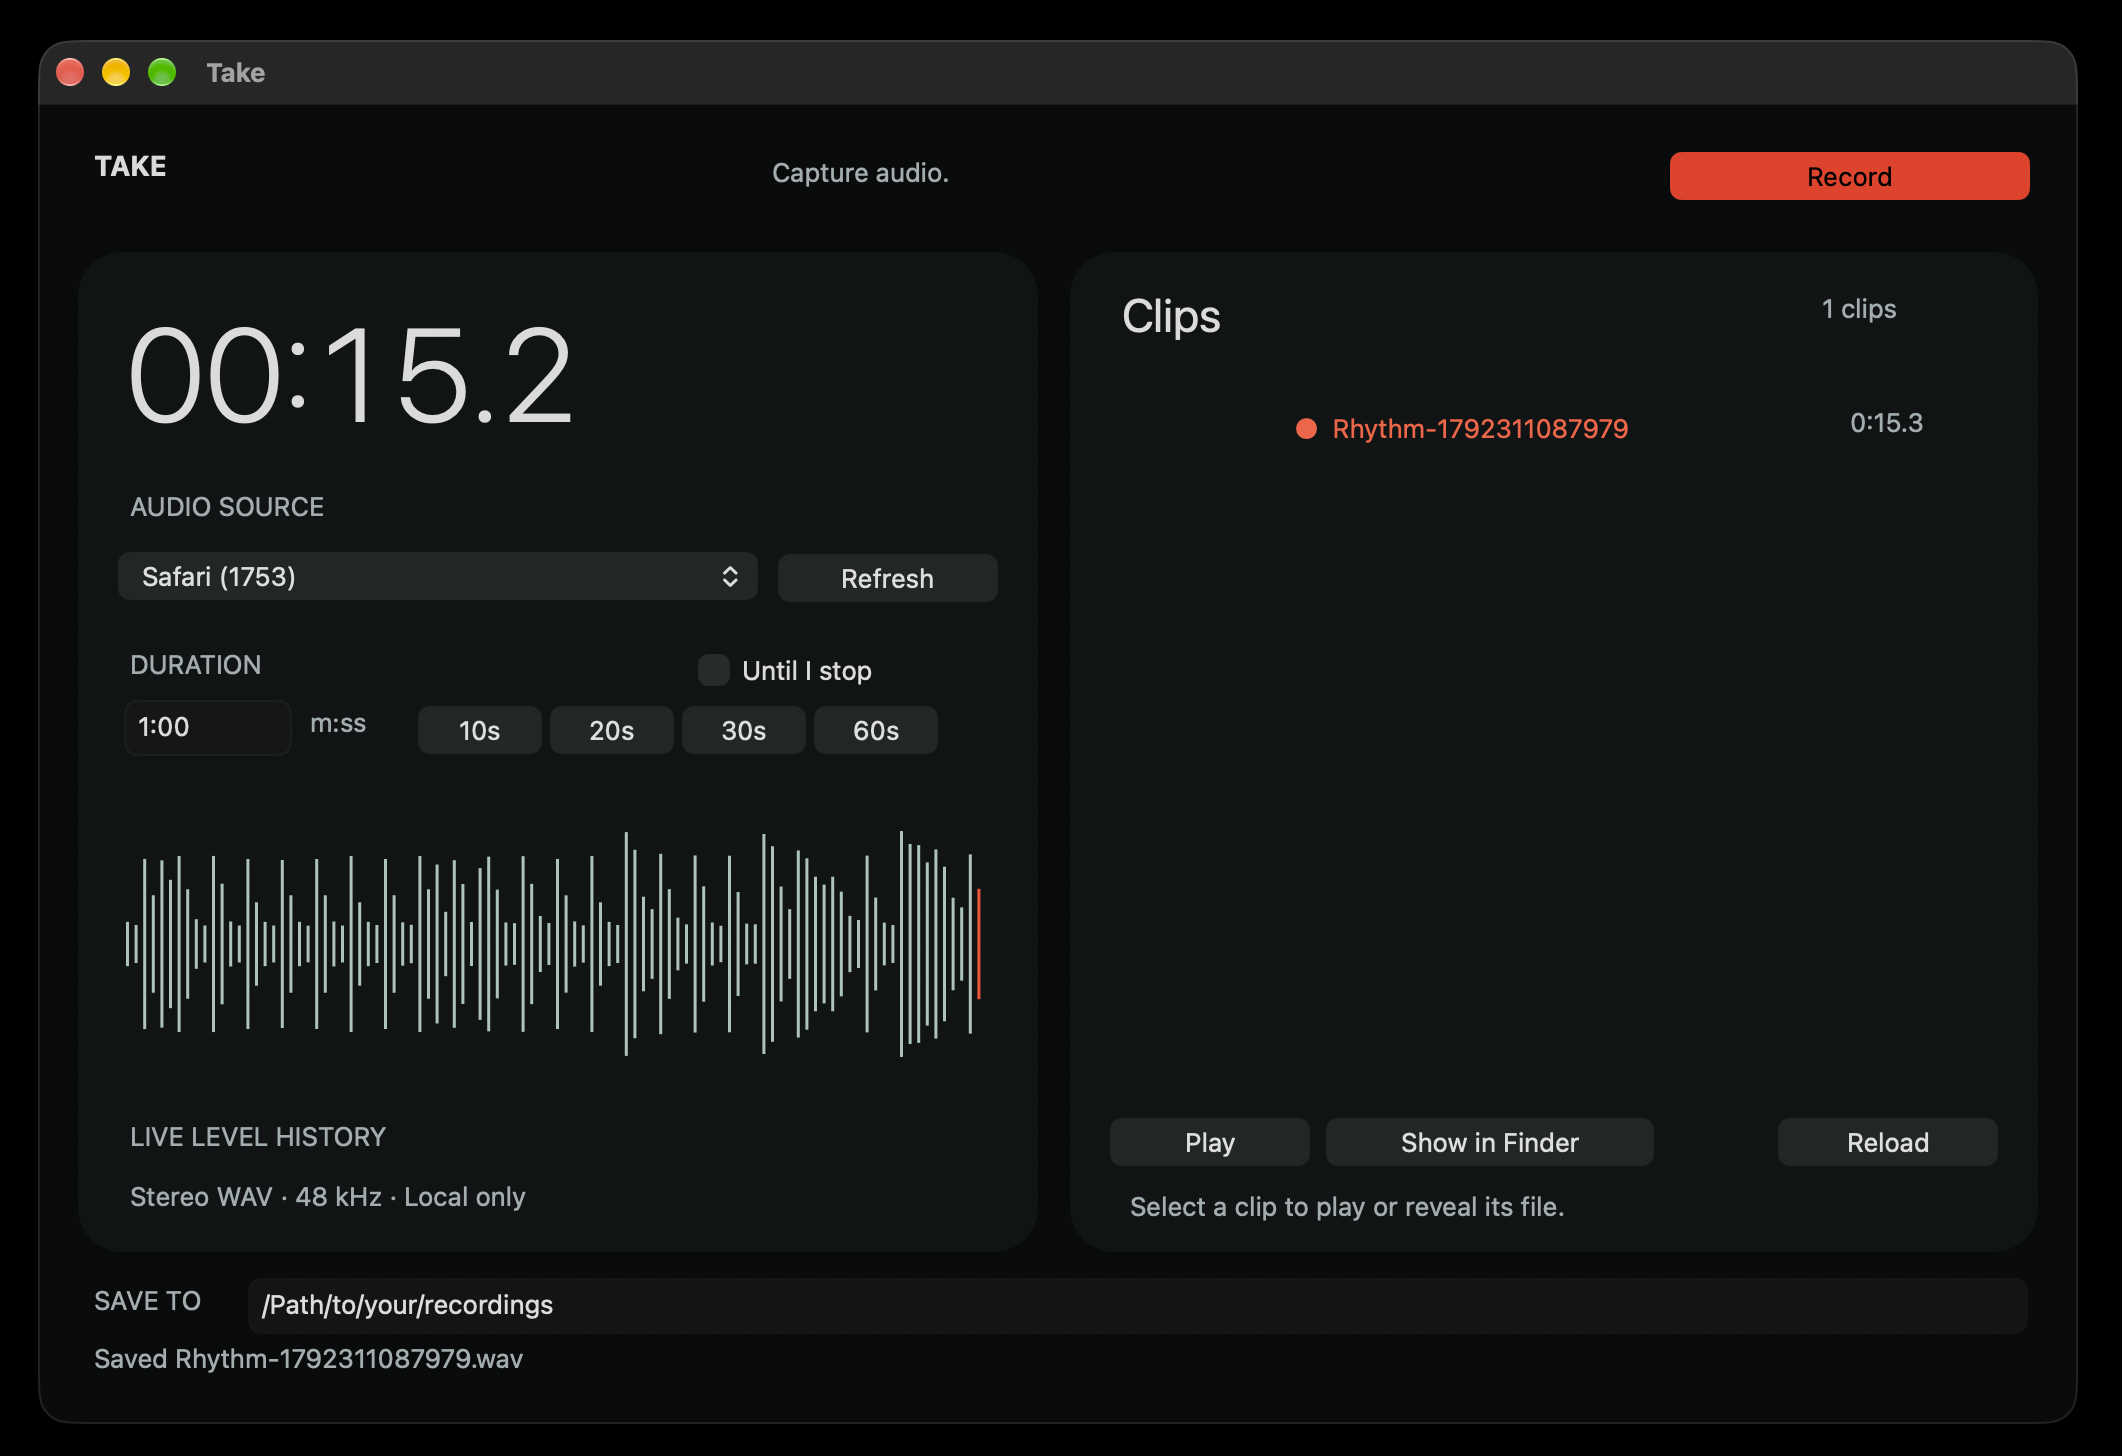
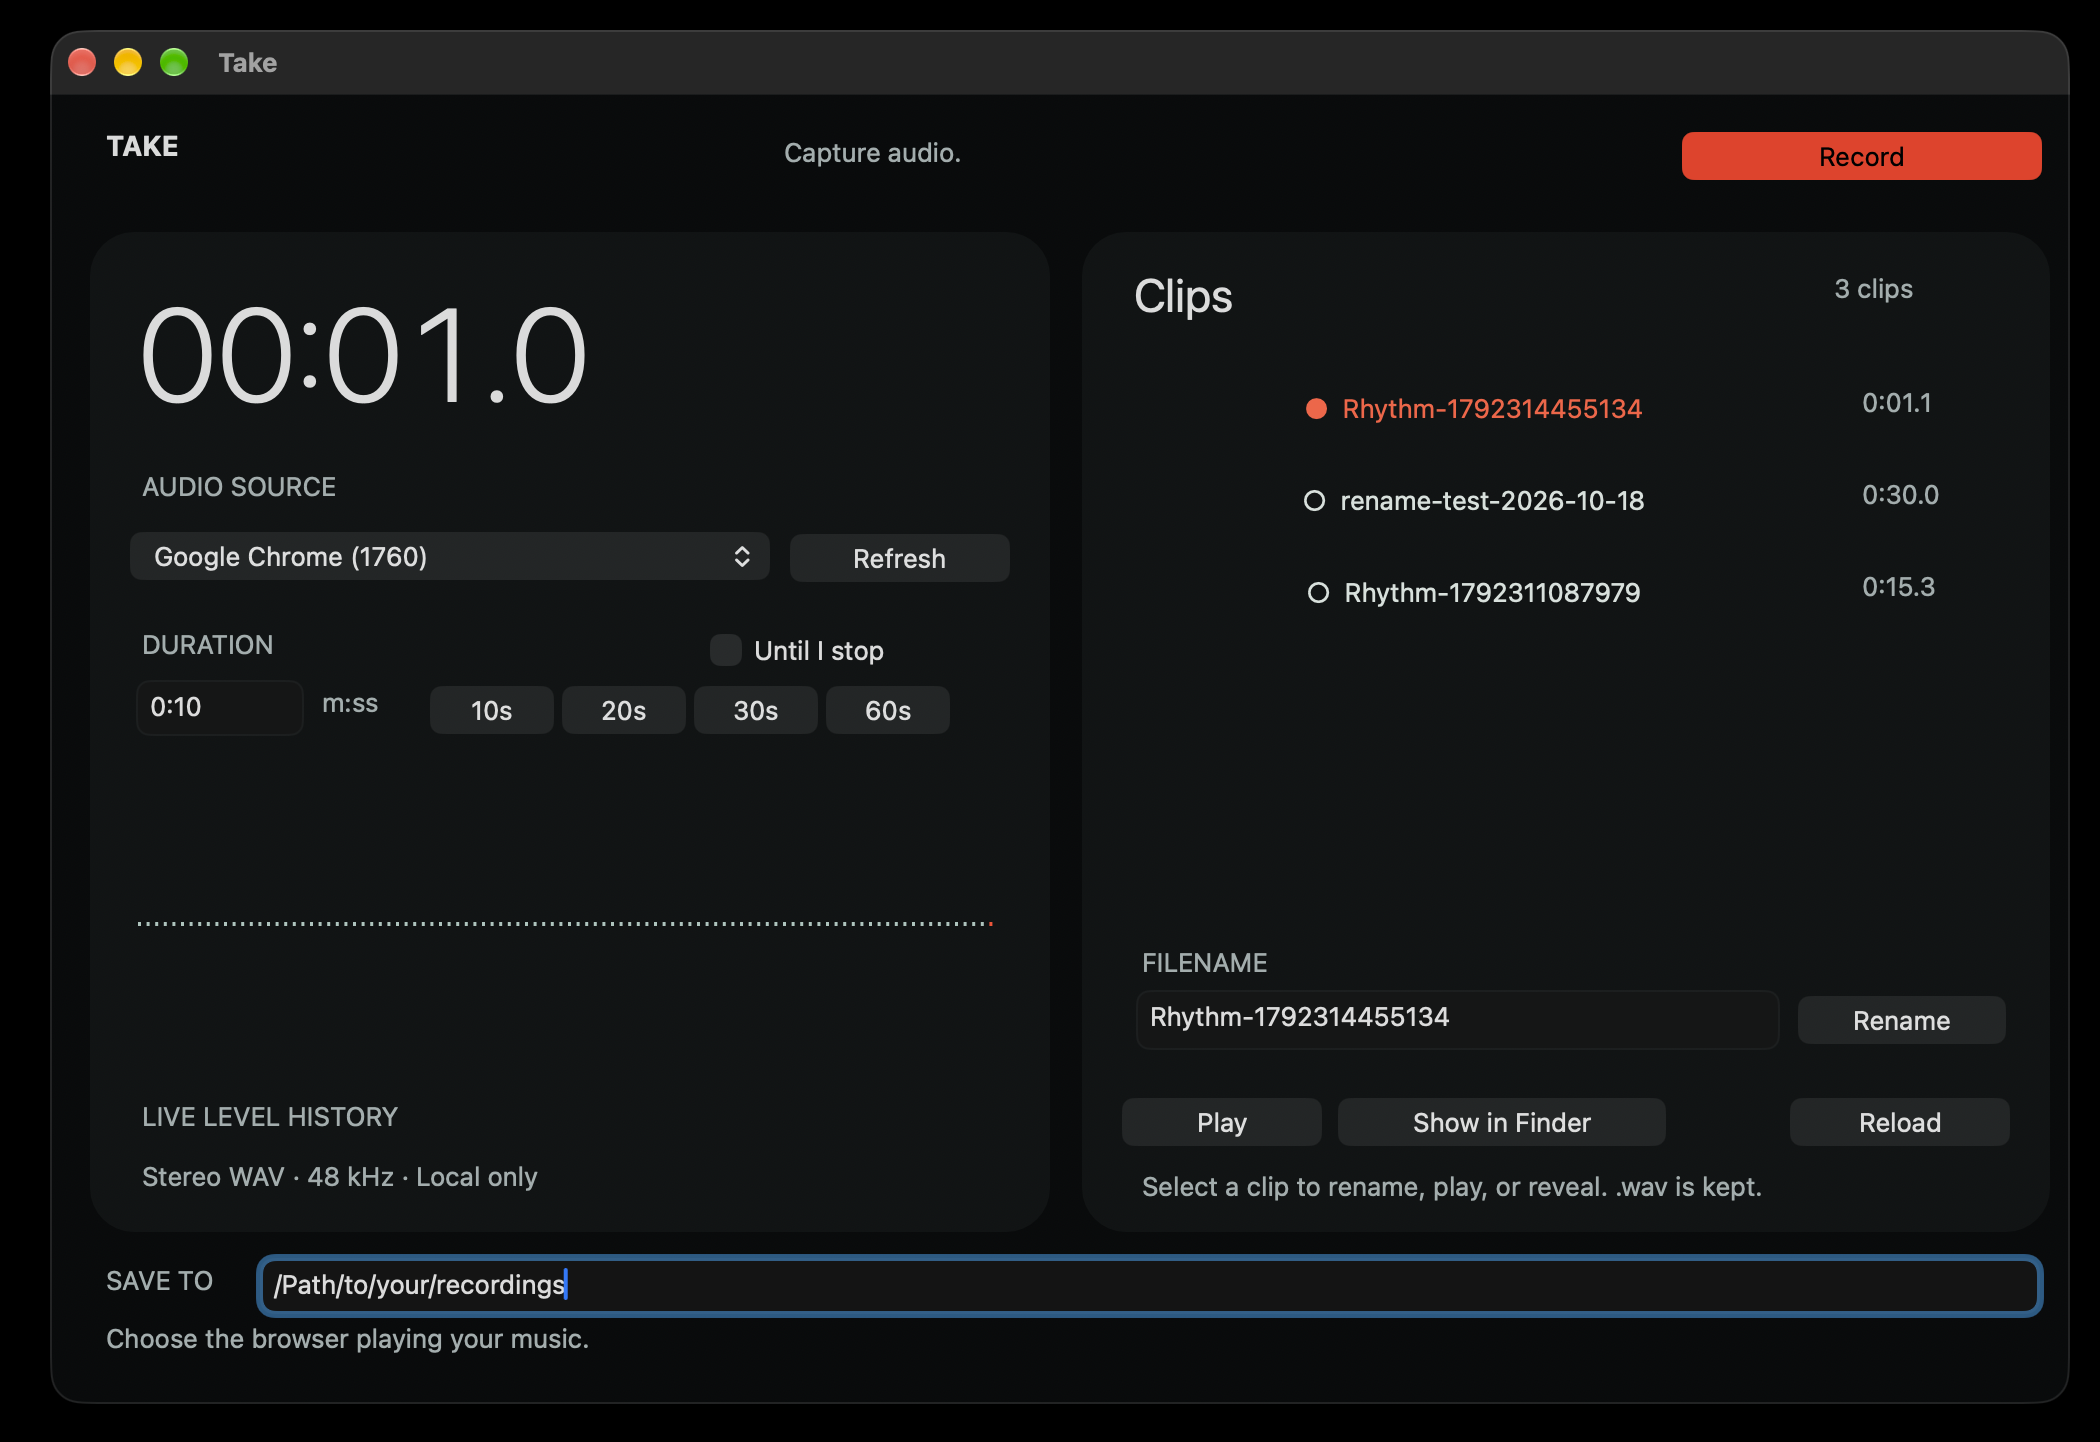
Refresh README screenshot and highlight clip renaming

diff --git a/README.md b/README.md
@@ -29,17 +29,18 @@ and reopen the app after changing its permission. Keep one installed app copy
 to avoid ambiguous Spotlight results and permission entries. No need to disable
 macOS security protections.
 
-Browser/app audio capture is implemented. KO II USB audio input
-and automatic key estimation are planned features, not currently available.
+Browser/app audio capture and renaming saved clips are available. KO II USB
+audio input and automatic key estimation are planned features, not currently
+available.
 
 ## Run
 
-![Take showing the audio source, minute:second duration, level history, and a saved recording in the Clips panel](docs/images/take.png)
+![Take showing recorded clips and the Filename field and Rename button in the Clips panel](docs/images/take.png)
 
 Open **Take.app** in this folder.
 
 1. Open the browser and music you want to record.
-2. Click **Refresh apps**. Allow capture when macOS requests it. If needed, enable Take in System Settings → Privacy & Security → Screen & System Audio Recording, then quit and reopen the app.
+2. Click **Refresh**. Allow capture when macOS requests it. If needed, enable Take in System Settings → Privacy & Security → Screen & System Audio Recording, then quit and reopen the app.
 3. Select your browser. Capture is application-wide: pause other tabs in that browser.
 4. Set a duration as minutes:seconds (e.g. `7:55`) or whole seconds (e.g. `475`), from `0:01` to `60:00`, or enable **Until I stop** to record without a timer. Choose a save folder. Default: `recordings` beside the app.
 5. Click **Record**, then play the excerpt. An elapsed timer and live level history show progress.
@@ -73,7 +74,7 @@ Live acceptance check (requires user-approved macOS capture permission): record 
 
 ## Recorder interface
 
-Dark two-panel AppKit interface with an elapsed timer, live peak-level history, duration presets, and a scrollable WAV recordings library. Select a clip, then use Play or Show in Finder. Reload scans the save folder again. The live display shows recent signal levels, not a sample-accurate waveform.
+Dark two-panel AppKit interface with an elapsed timer, live peak-level history, duration presets, and a scrollable WAV recordings library. Select a clip to edit its filename and click **Rename**, or use **Play** and **Show in Finder**. Reload scans the save folder again. The live display shows recent signal levels, not a sample-accurate waveform.
 
 ## Contributing
 
